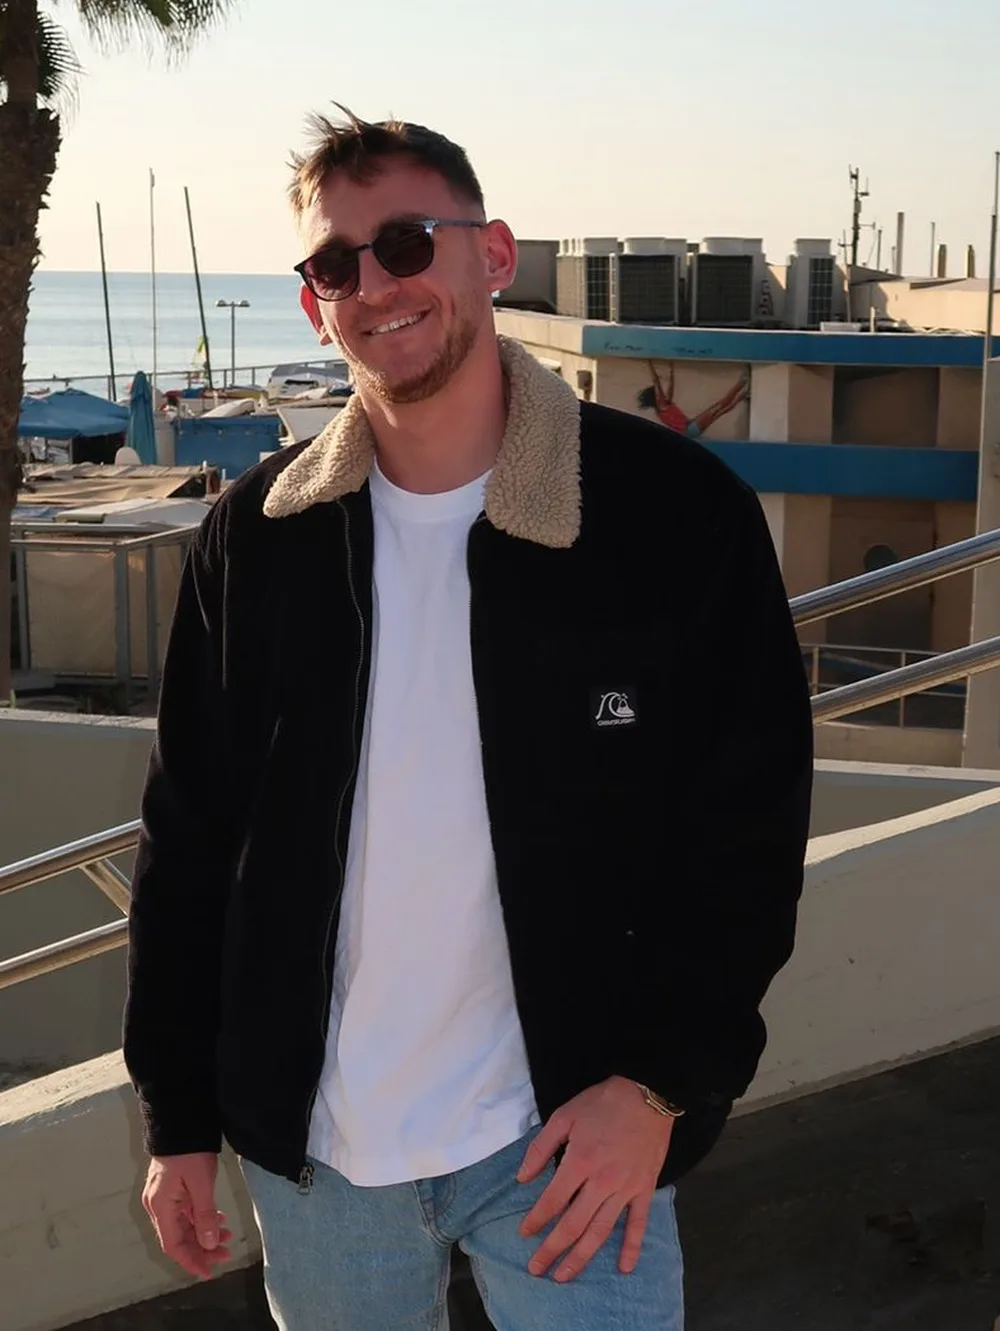
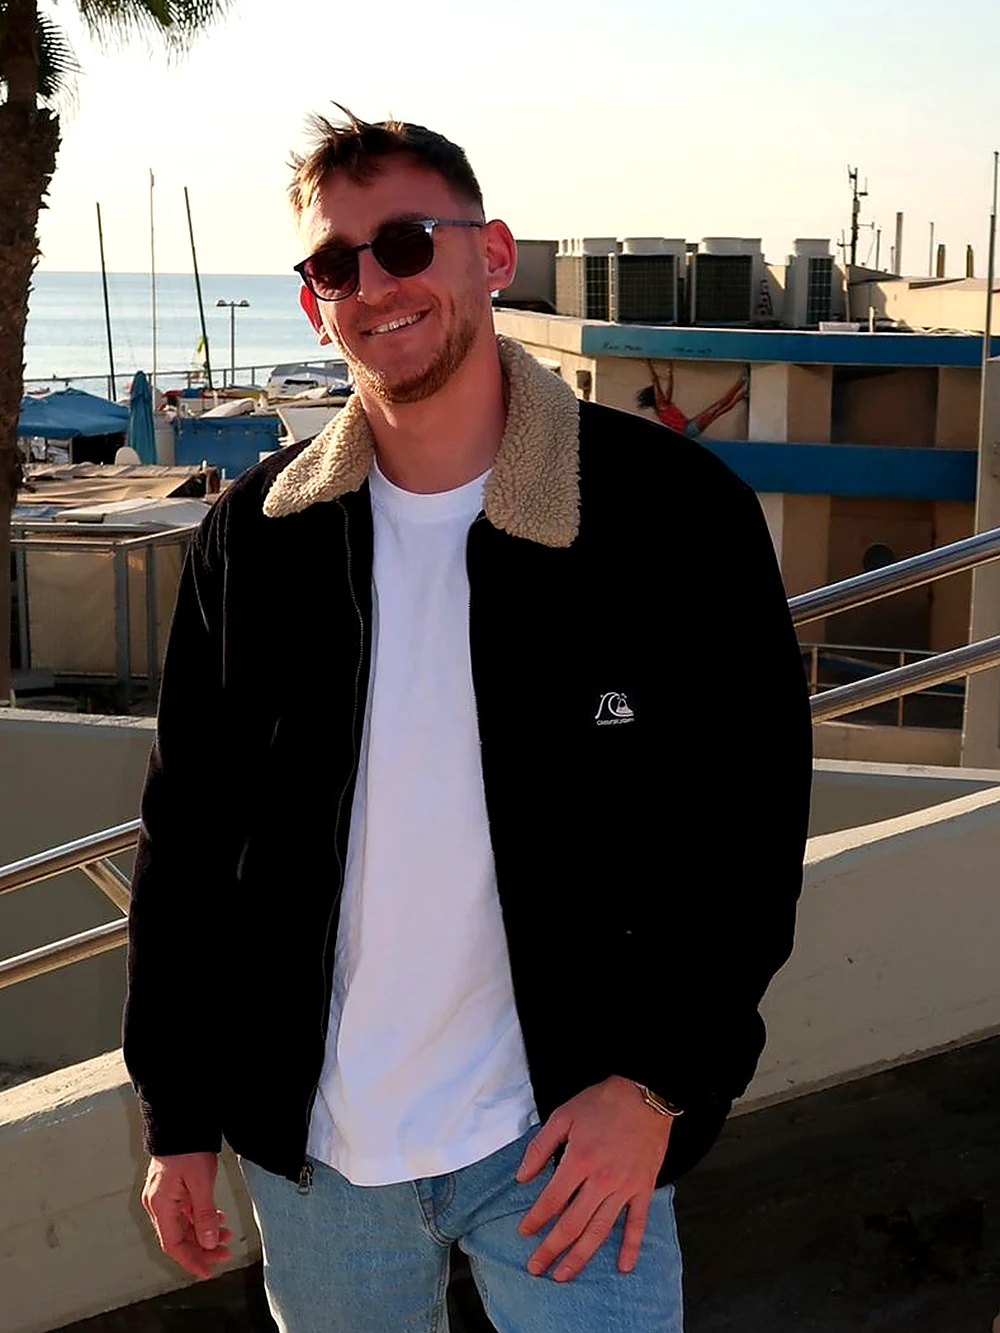
me: photos regraded from the originals (contrast/colour/sharpen), stage shot re-framed on Yarin, lectern crop at native res; About cluster re-laid so the three panels never overlap; Hi portrait 18×24 — save v20 re-adopts both

diff --git a/src/main.js b/src/main.js
@@ -939,14 +939,15 @@ const VOID_FX = { panelDimFloor: 0, panelLightRange: 26 };   // shared by every 
 const DEFAULT_BEATS = [
   /* 0 */ { name: 'Opening', cam: [-56, 2, 120], look: [-11, 59, 42], up: [0, 1, 0], fov: 25, dur: 1.4, desc: '', img: '', link: '', fx: { bloomStrength: 0.65 }, panel: null },
   // v18 (2026-09-14): person chapter — Hi / About / Timeline replace Hero / Intro / CV.
-  /* 1 */ { name: 'Hi', stop: 'hi', side: 'left', cam: [1, 53, 33], look: [1, 53, -67], up: [0, 1, 0], fov: 48, dur: 2.1, desc: '', img: '/assets/me/portrait.webp', link: '', fx: { ...VOID_FX }, panel: (() => { const p = P(1, 53, 33, 'left'); p.size = [16, 21.3]; p.pos[1] = 53; return p; })() },
+  /* 1 */ { name: 'Hi', stop: 'hi', side: 'left', cam: [1, 53, 33], look: [1, 53, -67], up: [0, 1, 0], fov: 48, dur: 2.1, desc: '', img: '/assets/me/portrait.webp', link: '', fx: { ...VOID_FX }, panel: (() => { const p = P(1, 53, 33, 'left'); p.size = [18, 24]; p.pos[1] = 52; return p; })() },
   /* 2 */ { name: 'About', stop: 'about', side: 'right', ease: 'easeOut', cam: [6, 12, 5], look: [6, 12, -95], up: [0, 1, 0], fov: 48, dur: 2.4, desc: '', img: '', link: '', fx: { ...VOID_FX }, panel: null,
            panels: [
-             // v19 (2026-09-16): each panel takes its photo's real aspect so nothing is cropped —
-             // stage 3:2 (28×18.67), memorial 3:4 (8.4×11.2, portrait), lectern detail 16:10
-             { img: '/assets/me/speaking-1.webp', ...(() => { const p = P(6, 12, 5, 'right'); p.size = [28, 18.67]; return p; })() },
-             { img: '/assets/me/speaking-2.webp', ...mkPanel(26, 1.2, -36, 8.4, 11.2, [0, -16, 0]) },
-             { img: '/assets/me/speaking-3.webp', ...mkPanel(12, 3, -30, 11, 6.9, [0, -8, 0]) },
+             // v20 (2026-09-16): three panels that never overlap — stage 3:2 (24×16) top,
+             // lectern 16:10 (12×7.5) bottom-left, memorial 3:4 (9.6×12.8, portrait) bottom-right. Each keeps
+             // its photo's real aspect so nothing is cropped by the panel.
+             { img: '/assets/me/speaking-1.webp', ...(() => { const p = P(6, 12, 5, 'right'); p.size = [24, 16]; p.pos[1] = 17; return p; })() },
+             { img: '/assets/me/speaking-2.webp', ...mkPanel(29.5, 1.5, -37, 9.6, 12.8, [0, -16, 0]) },
+             { img: '/assets/me/speaking-3.webp', ...mkPanel(12.5, 1, -35, 12, 7.5, [0, -8, 0]) },
            ] },
   /* 3 */ { name: 'Timeline', stop: 'timeline', screens: true, cam: [-8, 8, -21], look: [26, 20, -71], up: [0, 1, 0], fov: 60, dur: 1.6, desc: '', img: '', link: '', fx: { ...VOID_FX }, panel: null },
   /* 4 */ { name: 'How I Build', stop: 'build', cam: [7, 6, -45], look: [-14, 18, -95], up: [0, 1, 0], fov: 58, dur: 1.6, desc: '', img: '', link: '', fx: { ...VOID_FX }, panel: null },
@@ -1077,6 +1078,15 @@ function load() {
           for (const b of beats) if (b.stop === 'about' && src) b.panels = structuredClone(src.panels);
           migrated = true;
         }
+        if (!(d.version >= 20)) {
+          // v20 (2026-09-16): About cluster re-laid so the three photo panels never
+          // overlap; the Hi portrait panel grows to 18×24. Both re-adopted from defaults.
+          const src = DEFAULT_BEATS.find((b) => b.stop === 'about');
+          for (const b of beats) if (b.stop === 'about' && src) b.panels = structuredClone(src.panels);
+          const hi = DEFAULT_BEATS.find((b) => b.stop === 'hi');
+          for (const b of beats) if (b.stop === 'hi' && hi) b.panel = structuredClone(hi.panel);
+          migrated = true;
+        }
         beats.forEach(backfillBeat); // bring older saves up to the current schema
         if (migrated) save();
         return;
@@ -1088,7 +1098,7 @@ function load() {
 }
 function save() {
   const g = {}; for (const k of GLOBAL_KEYS) g[k] = FX[k]; g.ease = txEaseName;
-  try { localStorage.setItem(SAVE_KEY, JSON.stringify({ beats, speed: speedMul, smooth, g, version: 19 })); }
+  try { localStorage.setItem(SAVE_KEY, JSON.stringify({ beats, speed: speedMul, smooth, g, version: 20 })); }
   catch (e) { console.warn('[save]', e); }   // private mode / quota: never let a failed write abort the boot
 }
 // push the global (saved) FX/UX/transition state into the live scene + DOM

diff --git a/CLAUDE.md b/CLAUDE.md
@@ -152,13 +152,13 @@ folds a second featured project in as a compact row under the links.
 | `index.html` | 390 | Shell, loader, editor panels, JSON-LD, noscript skim path |
 | `public/previews/*.webp` | | teepo · aerocy · shadiez · smartcut · llm-gateway · focus · sabai · kiaras-club (q82, 1400–1600 px wide; the panel canvas is 1024) |
 | `public/assets/hero/` | | Hero screens (SmartCut html + png, Shadiez webp) |
-| `public/assets/me/` | | portrait (beach, tight crop) + 3 About panels: FIDF stage 3:2, Nova memorial at Re’im 3:4 (portrait panel), lectern detail 16:10 — uncropped, panels match the photo aspect |
+| `public/assets/me/` | | portrait (beach, tight crop, 18×24 panel) + 3 About panels: FIDF stage 3:2 (tighter edit of the original, 24×16), Nova memorial at Re’im 3:4 (9.6×12.8, portrait), lectern detail 16:10 (native-res crop, 12×7.5). All regenerated 2026-09-16 from the originals in `~/.claude/uploads/…` with a mild grade (autocontrast, +8% contrast, +10% saturation, unsharp) — panels match the photo aspect and never overlap |
 
 Deps: `three` 0.169, `meshline`, `three.quarks`, `vite` 8. No React.
 
 ### Persistence / migrations
 Path + FX config persists in **localStorage** `voidConfig`, currently **save
-version 19**. Any save below 16 has its beat array replaced wholesale with
+version 20**. Any save below 16 has its beat array replaced wholesale with
 `DEFAULT_BEATS` (the shape changed too much to patch) while the visitor's
 global FX/speed/ease settings are kept; v17 (2026-09-12) then rewrites
 `/previews/*.jpg` → `.webp` in whatever beat array survived (the JPGs are
@@ -166,7 +166,9 @@ gone), leaving any URL pasted in Director Mode alone; v18 (2026-09-14) — Hi /
 About / Timeline replace Hero / Intro / CV, beats gain `panels[]` and
 `screens` — wholesale re-adopts `DEFAULT_BEATS` again (any save `< 18`), same
 global-settings carve-out; v19 (2026-09-16) re-adopts only the About beat's
-`panels[]` (photo panels sized to their real aspect). The v2–v14 patch migrations were
+`panels[]` (photo panels sized to their real aspect); v20 (2026-09-16) re-adopts
+the About `panels[]` (re-laid so the three never overlap) and the Hi `panel`
+(18×24). The v2–v14 patch migrations were
 deleted on 2026-09-12: they only ever ran on beats the v14/v15 reset was about
 to discard. Any future
 `DEFAULT_BEATS` shape change needs its own migration step + version bump,
